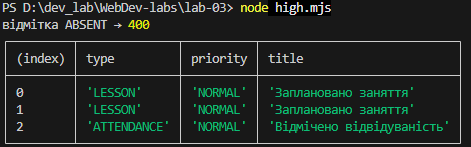
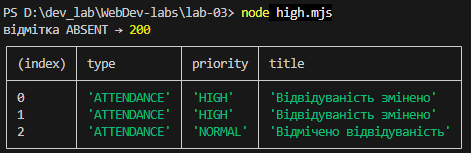
lab-03: report done

Changed region(s): [[0.0, 0.2721, 0.9809, 0.9796], [0.0, 0.0, 0.7134, 0.2449]]

diff --git a/lab-03/scripts/two-clients.js b/lab-03/scripts/two-clients.js
@@ -1,0 +1,37 @@
+import { io } from 'socket.io-client';
+
+const BASE = 'http://localhost:3000';
+const LESSON_ID = 4048;
+const ATTENDANCE_ID = 120103; // id з відповіді redis-check
+
+async function login(email) {
+  const r = await fetch(BASE + '/api/auth/login', {
+    method: 'POST',
+    headers: { 'Content-Type': 'application/json' },
+    body: JSON.stringify({ email, password: 'Test1234!' }),
+  });
+  const d = await r.json();
+  return d.tokens?.accessToken ?? d.tokens?.access;
+}
+
+const studentToken = await login('student@test.com');
+const teacherToken = await login('teacher@test.com');
+
+const student = io(BASE, { auth: { token: studentToken } });
+const teacher = io(BASE, { auth: { token: teacherToken } });
+await Promise.all([new Promise((r) => student.on('connect', r)), new Promise((r) => teacher.on('connect', r))]);
+console.log('✓ підключено двох клієнтів: студент і викладач');
+
+await teacher.emitWithAck('room:join', `lesson:${LESSON_ID}`);
+
+student.on('attendance:updated', (p) => console.log('СТУДЕНТ отримав attendance:updated:', p.status));
+teacher.on('attendance:updated', (p) => console.log('ВИКЛАДАЧ отримав attendance:updated:', p.status));
+
+const r = await fetch(`${BASE}/api/attendance/${ATTENDANCE_ID}`, {
+  method: 'PUT',
+  headers: { 'Content-Type': 'application/json', Authorization: `Bearer ${teacherToken}` },
+  body: JSON.stringify({ status: 'ABSENT' }),
+});
+console.log('PUT →', r.status);
+
+setTimeout(() => process.exit(0), 1500);

diff --git a/lab-03/reports/lab3_report.md b/lab-03/reports/lab3_report.md
@@ -188,4 +188,4 @@ export async function notifyMany(io, userIds, { type, priority = 'NORMAL', title
 
 Самооцінка: [5]
 
-Обґрунтування: [виконано всі завдання рівнів 1 і 2. З рівня 3 реалізовано чотири пункти з восьми: 2FA, журнал дій, rate limiting, завантаження кількох файлів. Паролі хешуються Argon2id, refresh-токени мають ротацію та відкликання, роботу покрито 42 автоматичними тестами, документація Swagger описує всі ендпоінти. Не реалізовано відновлення пароля через email, OAuth і детальну систему дозволів, а CRUD груп, предметів, пар і користувачів перевірявся вручну.]
+Обґрунтування: [виконано всі завдання рівнів 1, 2 і 3. Socket.io інтегровано з JWT-автентифікацією, кімнатами, сповіщеннями з типами й пріоритетами та відновленням пропущених подій через журнал RealtimeEvent із порядковим номером seq. З рівня 3 реалізовано Redis-адаптер (перевірено двома інстансами), rate limiting WebSocket-подій, чергу BullMQ для масових сповіщень, кешування в Redis, метрики Prometheus і журналювання pino та документацію WebSocket API. Запити оптимізовано індексами з порівнянням EXPLAIN ANALYZE до і після (Seq Scan замінено на Index Scan), усунено N+1 і додано пагінацію та raw SQL звіт. Застосунок розгорнуто на Render (БД на Neon, Redis на Upstash) із GET /health, міграції застосовуються через prisma migrate deploy. Роботу покрито 64 автоматичними тестами. Автомасштабування Render Free не підтримує, тому його підготовку й вимогу sticky sessions описано в README. Відновлення пропущених подій обмежено 500 записами, а довідки зберігаються на тимчасовій файловій системі, тож для постійного зберігання потрібне зовнішнє сховище.]
